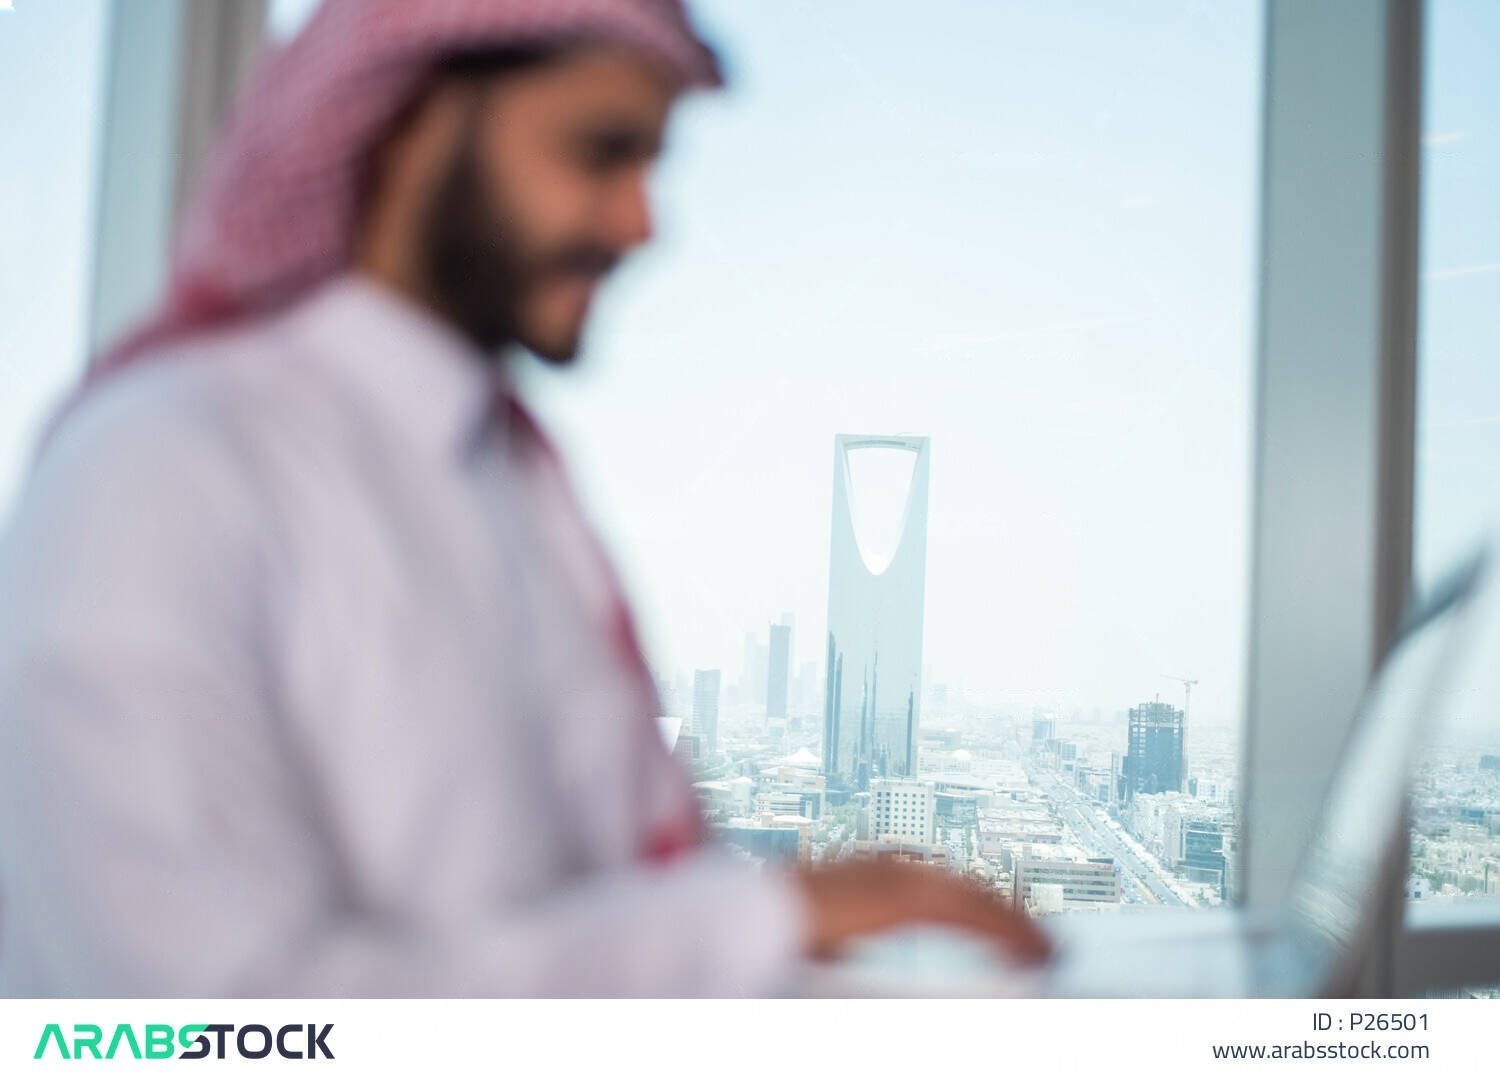
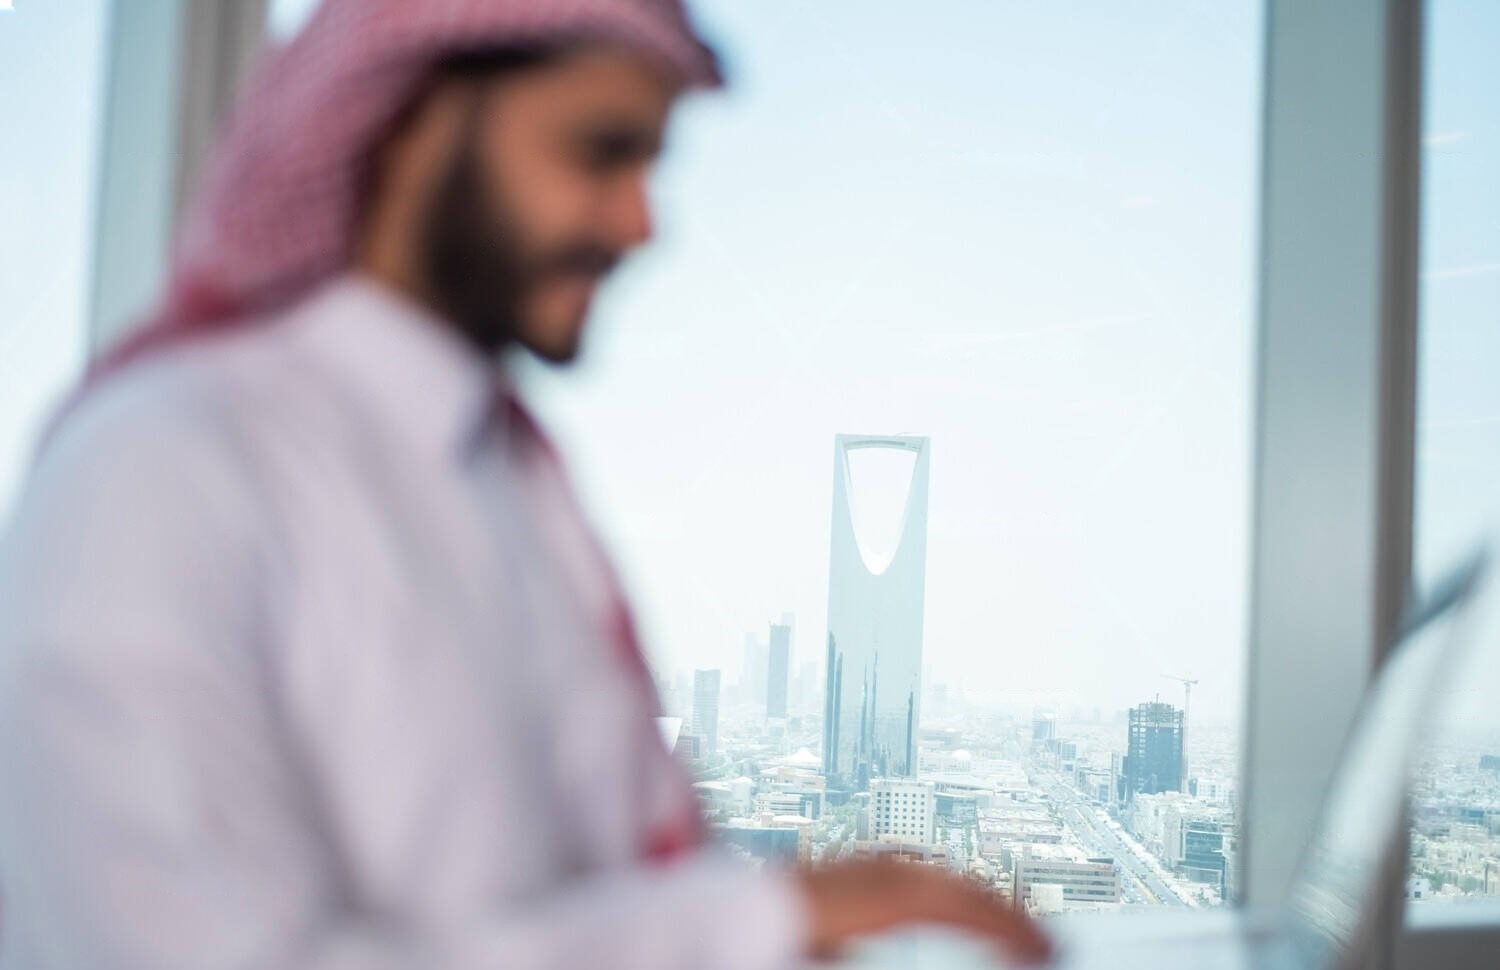
finish content of about page in arabic

diff --git a/src/app/[locale]/about/page.tsx b/src/app/[locale]/about/page.tsx
@@ -2,23 +2,21 @@ import Hero from "@/components/Hero";
 import Aboutus from "@/components/about/Aboutus";
 import React from "react";
 import CompanyOverview from "@/components/about/CompanyOverview";
+import AboutImageSection from "@/components/about/AboutImageSection";
 import DateCompanySection from "@/components/about/DateCompanySection";
 import ContactSection from "@/components/about/ContactSection";
 import NewsletterSection from "@/components/home/Newsletter";
 
 export default function AboutPage() {
   return (
-    <div className="relative min-h-[60vh] flex flex-col items-center justify-center overflow-hidden">
-      <div className="absolute inset-0 z-0 bg-[url('/bg.jpg')] bg-repeat opacity-3" />
-
-      <div className="relative z-10 w-full">
-        <Hero title="حول امل الخير"/>
-        <Aboutus />
-        <CompanyOverview />
-        <DateCompanySection />
-        <ContactSection />
-        <NewsletterSection/>
-      </div>
-    </div>
+		<div className="relative flex flex-col gap-0">
+			<Hero title="حول امل الخير" />
+			<Aboutus />
+			<AboutImageSection />
+			<CompanyOverview />
+			<DateCompanySection />
+			<ContactSection />
+			<NewsletterSection />
+		</div>
   );
 }

diff --git a/src/components/about/AboutImageSection.tsx b/src/components/about/AboutImageSection.tsx
@@ -1,0 +1,18 @@
+import Image from "next/image";
+
+export default function AboutImageSection() {
+	return (
+		<section className="py-16 bg-white">
+			<div className="w-full">
+				<Image
+					src="/about.jpg"
+					alt="About Amal Al-Khair"
+					width={1920}
+					height={800}
+					className="w-full h-auto"
+					priority
+				/>
+			</div>
+		</section>
+	);
+}
